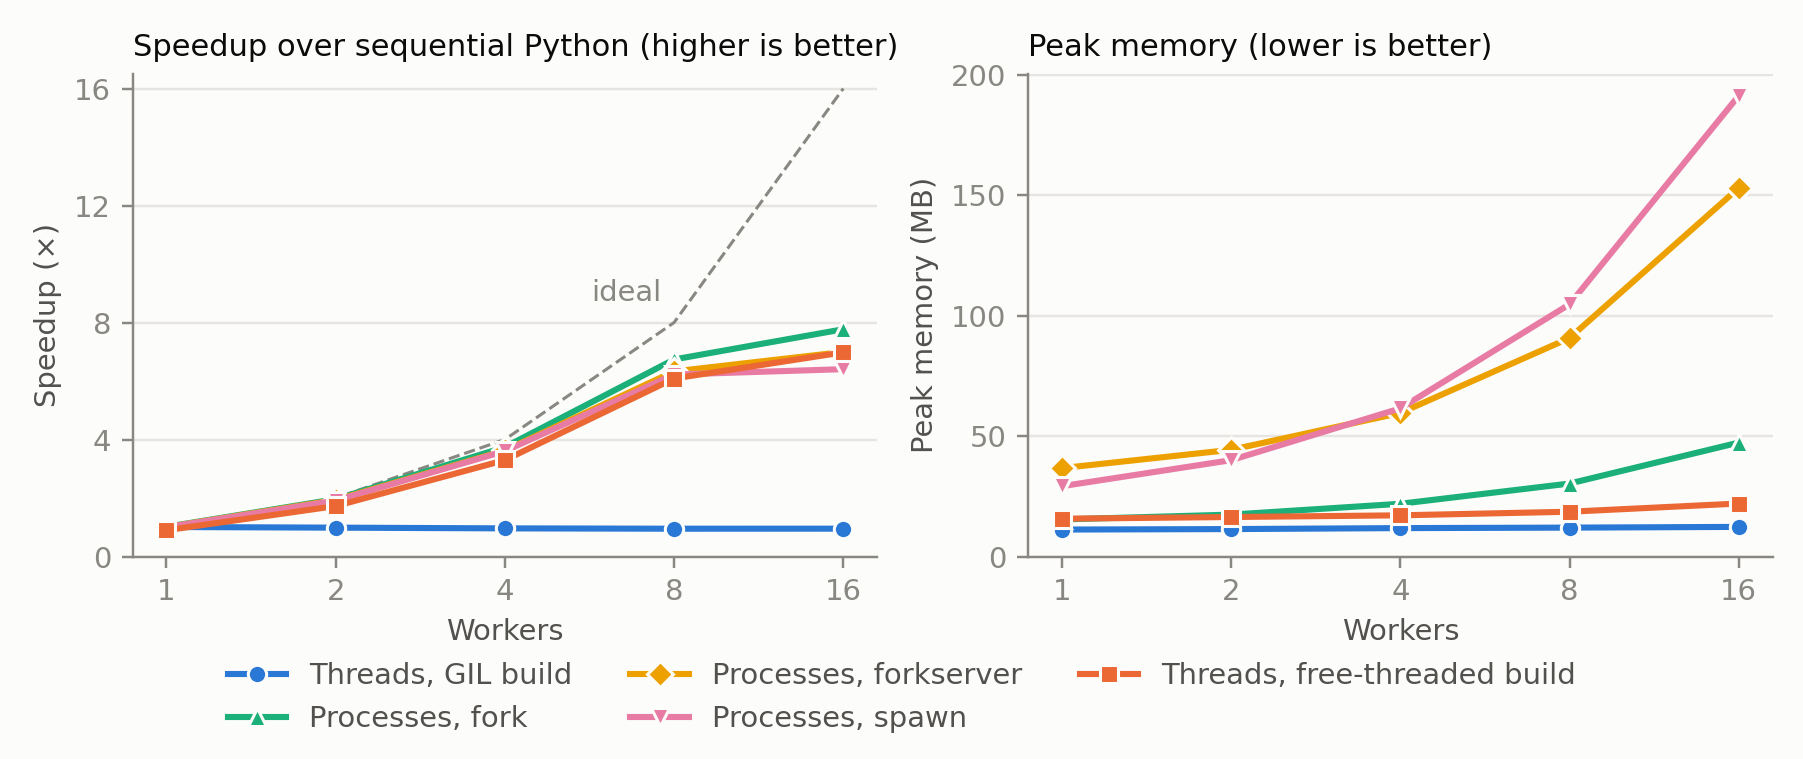
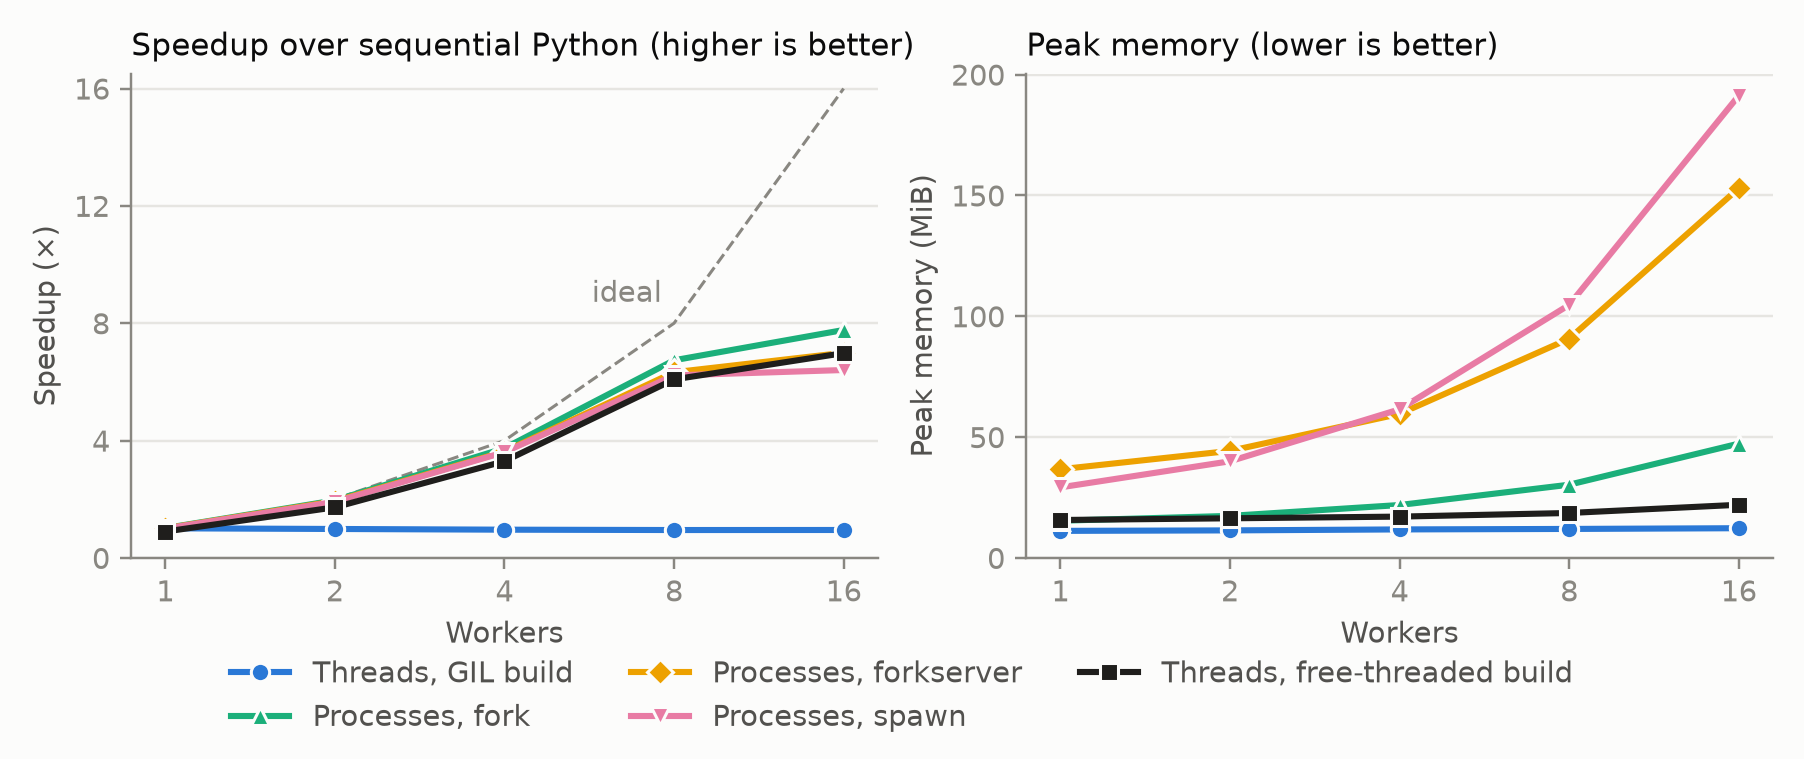
Add fork page-fault measurement and build flags; clearer figures
forkfaults.py explains why the first pass under fork is slower when data is
sent with each task: about 85,000 extra minor faults in the parent, none in
the workers, and gc.freeze() changes nothing.

Free-threaded lines are now near-black because orange was too close to
forkserver's yellow. Memory axes say MiB. The README maps each paper result
to its data and command.

diff --git a/figures.py b/figures.py
@@ -11,7 +11,9 @@ import matplotlib
 matplotlib.use("Agg")
 import matplotlib.pyplot as plt
 
-BLUE, ORANGE, AQUA, YELLOW, MAGENTA, VIOLET = "#2a78d6", "#eb6834", "#1baf7a", "#eda100", "#e87ba4", "#6250d6"
+# Free-threaded is near-black, not a hue: it must stand out from every process
+# line, including in greyscale. Tuple vs list is the same colour, dashed.
+BLUE, AQUA, YELLOW, MAGENTA, FREE = "#2a78d6", "#1baf7a", "#eda100", "#e87ba4", "#1f1e1c"
 INK2, MUTED, GRID, SURFACE = "#52514e", "#898781", "#e6e5e1", "#fcfcfb"
 plt.rcParams.update({
     "font.family": "sans-serif",
@@ -48,8 +50,8 @@ def style(ax, xs, xlabel):
     ax.set_xlabel(xlabel)
 
 
-def line(ax, xs, ys, label, color, marker):
-    ax.plot(xs, ys, color=color, marker=marker, markersize=6, linewidth=2, label=label,
+def line(ax, xs, ys, label, color, marker, style="-"):
+    ax.plot(xs, ys, color=color, marker=marker, markersize=6, linewidth=2, label=label, linestyle=style,
             markeredgecolor=SURFACE, markeredgewidth=1, zorder=3)
 
 
@@ -69,7 +71,7 @@ def fig1():
         ("Processes, fork", ("gil", "processes", "-", "fork"), AQUA, "^"),
         ("Processes, forkserver", ("gil", "processes", "-", "forkserver"), YELLOW, "D"),
         ("Processes, spawn", ("gil", "processes", "-", "spawn"), MAGENTA, "v"),
-        ("Threads, free-threaded build", ("free-threaded", "threads", "-", ""), ORANGE, "s"),
+        ("Threads, free-threaded build", ("free-threaded", "threads", "-", ""), FREE, "s"),
     ]
     fig, (a, b) = plt.subplots(1, 2, figsize=(8.2, 3.45), facecolor=SURFACE)
     for ax in (a, b):
@@ -85,7 +87,7 @@ def fig1():
     a.set_ylim(0, 16.5)
     a.set_yticks([0, 4, 8, 12, 16])
     b.set_title("Peak memory (lower is better)", loc="left", fontsize=10)
-    b.set_ylabel("Peak memory (MB)")
+    b.set_ylabel("Peak memory (MiB)")
     b.set_ylim(bottom=0)
     finish(fig, a, "fig1_primes.png", 3)
 
@@ -94,21 +96,21 @@ def fig2():
     d = load("bigdata")
     sizes = [10, 100, 500]
     setups = [
-        ("Threads, GIL build (list)", ("gil", "threads", "list", ""), BLUE, "o"),
-        ("Free-threaded (list)", ("free-threaded", "threads", "list", ""), ORANGE, "s"),
-        ("Free-threaded (tuple)", ("free-threaded", "threads", "tuple", ""), VIOLET, "P"),
-        ("Fork + initializer", ("gil", "processes", "init", "fork"), AQUA, "^"),
-        ("Forkserver, data with each task", ("gil", "processes", "arg", "forkserver"), YELLOW, "D"),
-        ("Spawn + initializer", ("gil", "processes", "init", "spawn"), MAGENTA, "v"),
+        ("Threads, GIL build (list)", ("gil", "threads", "list", ""), BLUE, "o", "-"),
+        ("Free-threaded (list)", ("free-threaded", "threads", "list", ""), FREE, "s", "-"),
+        ("Free-threaded (tuple)", ("free-threaded", "threads", "tuple", ""), FREE, "P", "--"),
+        ("Fork + initializer", ("gil", "processes", "init", "fork"), AQUA, "^", "-"),
+        ("Forkserver, data with each task", ("gil", "processes", "arg", "forkserver"), YELLOW, "D", "-"),
+        ("Spawn + initializer", ("gil", "processes", "init", "spawn"), MAGENTA, "v", "-"),
     ]
     fig, (a, b) = plt.subplots(1, 2, figsize=(8.2, 3.45), facecolor=SURFACE)
     for ax in (a, b):
         style(ax, sizes, "Size of shared data (MiB)")
         ax.set_yscale("log")
-    for label, key, color, marker in setups:
+    for label, key, color, marker, dash in setups:
         rows = [d[(*key, 16, s)] for s in sizes]
-        line(a, sizes, [r[0] for r in rows], label, color, marker)
-        line(b, sizes, [r[1] for r in rows], label, color, marker)
+        line(a, sizes, [r[0] for r in rows], label, color, marker, dash)
+        line(b, sizes, [r[1] for r in rows], label, color, marker, dash)
     a.set_yticks([0.01, 0.1, 1, 10])
     a.set_yticklabels(["0.01", "0.1", "1", "10"])
     b.set_yticks([100, 1000, 10000])
@@ -118,7 +120,7 @@ def fig2():
     a.set_title("Total time, three passes (lower is better)", loc="left", fontsize=10)
     a.set_ylabel("Seconds, log scale")
     b.set_title("Peak memory (lower is better)", loc="left", fontsize=10)
-    b.set_ylabel("MB, log scale")
+    b.set_ylabel("MiB, log scale")
     finish(fig, a, "fig2_bigdata.png", 3)
 
 

diff --git a/forkfaults.py b/forkfaults.py
@@ -1,0 +1,74 @@
+#!/usr/bin/env python3
+"""Why is the first pass of "bigdata, data sent with each task" slower under fork?
+
+Runs the same loop as bench.py --workload bigdata --variant arg (500 MiB, 16
+workers, 3 passes) and counts minor page faults per pass, in the parent and summed
+over the workers. Three setups, interleaved:
+
+    fork         as in the benchmark
+    fork+freeze  gc.freeze() in the parent before forking, so the garbage collector
+                 in the workers does not walk the inherited objects
+    forkserver   workers inherit nothing from the parent (control)
+
+    python forkfaults.py [runs] > results/forkfaults.csv
+"""
+import gc
+import multiprocessing as mp
+import os
+import resource
+import sys
+import time
+from concurrent.futures import ProcessPoolExecutor
+
+import bench
+
+SIZE_MIB = 500
+WORKERS = 16
+TASKS = 64
+PASSES = 3
+
+
+def minflt(pid: int) -> int:
+    with open(f"/proc/{pid}/stat") as f:
+        # field 10 of proc_pid_stat; the command name in field 2 may contain spaces
+        return int(f.read().rsplit(")", 1)[1].split()[7])
+
+
+def run(setup: str, repeat: int):
+    records = bench.make_records(SIZE_MIB)
+    chunks = bench.ranges(len(records), TASKS)
+    if setup == "fork+freeze":
+        gc.collect()
+        gc.freeze()
+    method = "forkserver" if setup == "forkserver" else "fork"
+    with ProcessPoolExecutor(WORKERS, mp_context=mp.get_context(method)) as ex:
+        parent0 = resource.getrusage(resource.RUSAGE_SELF).ru_minflt
+        workers0 = 0
+        for p in range(1, PASSES + 1):
+            t = time.perf_counter()
+            list(ex.map(bench.scan, (records[lo:hi] for lo, hi in chunks)))
+            seconds = time.perf_counter() - t
+            parent = resource.getrusage(resource.RUSAGE_SELF).ru_minflt
+            workers = sum(minflt(pid) for pid in ex._processes)
+            print(f"{setup},{repeat},{p},{seconds:.4f},{parent - parent0},{workers - workers0}", flush=True)
+            parent0, workers0 = parent, workers
+    gc.unfreeze()
+
+
+def main():
+    runs = int(sys.argv[1]) if len(sys.argv) > 1 else 3
+    print("setup,repeat,pass,seconds,parent_minflt,worker_minflt", flush=True)
+    for r in range(1, runs + 1):
+        for setup in ("fork", "fork+freeze", "forkserver"):
+            # a new process per run, so one run's heap cannot affect the next
+            pid = os.fork()
+            if pid == 0:
+                run(setup, r)
+                os._exit(0)
+            _, status = os.waitpid(pid, 0)
+            if status != 0:
+                sys.exit(f"{setup} failed: status {status}")
+
+
+if __name__ == "__main__":
+    main()

diff --git a/README.md b/README.md
@@ -15,7 +15,7 @@ Compares, on four pure-Python workloads:
 | `tiny`    | many short tasks; one reused pool vs a new pool per batch, chunksize 1 vs a sensible chunksize | #4 |
 
 Wall time includes pool creation and shutdown, so process start-up cost is
-counted. Peak memory is the kernel's cgroup `memory.peak` for the benchmark and all
+counted. Sequential runs are a plain loop with no pool. Peak memory, in MiB, is the kernel's cgroup `memory.peak` for the benchmark and all
 its descendants: `memwatch.py` runs each benchmark in its own systemd user scope and
 reads the value afterwards. Nothing samples the benchmark while it runs, and pages
 shared by several processes count once. Sampling PSS (the draft's method) missed
@@ -32,7 +32,7 @@ Your system Python is not touched. `uv` installs 3.14 and 3.14t into your home f
 
 ```bash
 curl -LsSf https://astral.sh/uv/install.sh | sh    # once, if you don't have uv
-cd ftbench
+cd freethreaded-vs-multiprocessing
 ./run_all.sh                     # all experiments, writes results/<experiment>.csv
 ./run_all.sh primes bigdata      # or just some
 python3 analyze.py               # median tables + sanity checks
@@ -50,10 +50,36 @@ python3.14 memwatch.py -- python3.14 -I bench.py --workload bigdata \
 `results.csv` / `plot.py` / `speedup.png` are the first experiment from the
 draft (in-process memory sampler, forkserver only), kept as they were.
 
+`results/v1_sampled_pss/` holds the first full run, measured with the sampled PSS
+method the paper rejects. It is kept to show that comparison; the paper uses no
+other number from it.
+
 `figures.py` draws the paper's figures from `results/` (`fig1_primes.png`, `fig2_bigdata.png`).
 
 `slowdown.py` times single operations in one thread on each build, for the
 single-thread slowdown. `compat.py` is the library compatibility study.
+`forkfaults.py` counts page faults per pass, to explain why the first pass under
+fork is slower when data is sent with each task.
+
+## Where each paper result comes from
+
+| Paper | Data in `results/` | Made by |
+|---|---|---|
+| Table 1, Fig. 1 | `primes.csv` | `./run_all.sh primes` |
+| Table 2, Fig. 2 | `bigdata.csv` | `./run_all.sh bigdata` |
+| Fork first-pass faults | `forkfaults.csv` | `./run_all.sh forkfaults` |
+| Table 3 | `shared.csv`, `shared_lists.csv` | `./run_all.sh shared shared_lists` |
+| Table 4 | `tiny_batched.csv`; pool cost and unchunked times from `tiny.csv` | `./run_all.sh tiny tiny_batched` |
+| Single-thread overhead | `slowdown.csv`, `primes.csv`, `bigdata.csv` | `./run_all.sh slowdown` |
+| Table 5 | `compat.jsonl`, `top-pypi-snapshot.json` | `python3 compat.py --work <scratch dir>` |
+| `lxml` case | `compat_lxml_case.txt` | `compat_lxml_case.py` |
+| Rejecting sampled memory | `mem_validation.txt` | `./run_all.sh memcheck` |
+| Build flags | `build_config.txt` | `./run_all.sh buildconfig` |
+
+`compat.py` installs packages from PyPI, so it needs network access and a scratch
+folder (`--work`). The other experiments are local. The 16 packages beyond the top
+100 are the entries in `compat_probe.py`'s `SMOKES` that are not in the snapshot's
+top 100.
 
 ## For clean numbers
 
